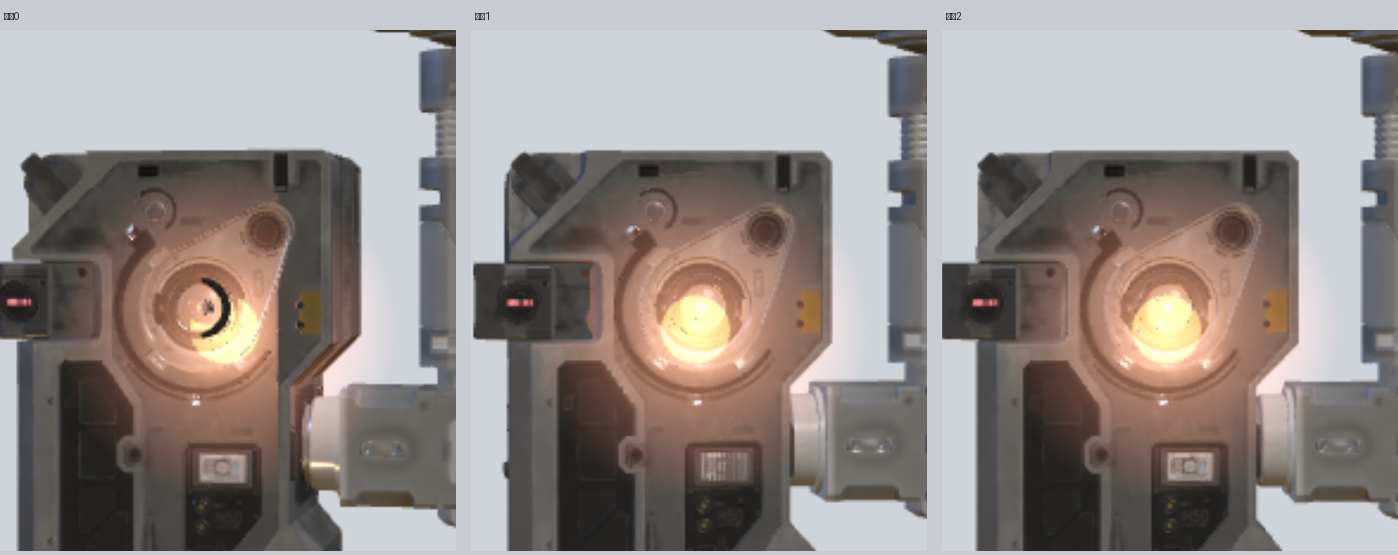
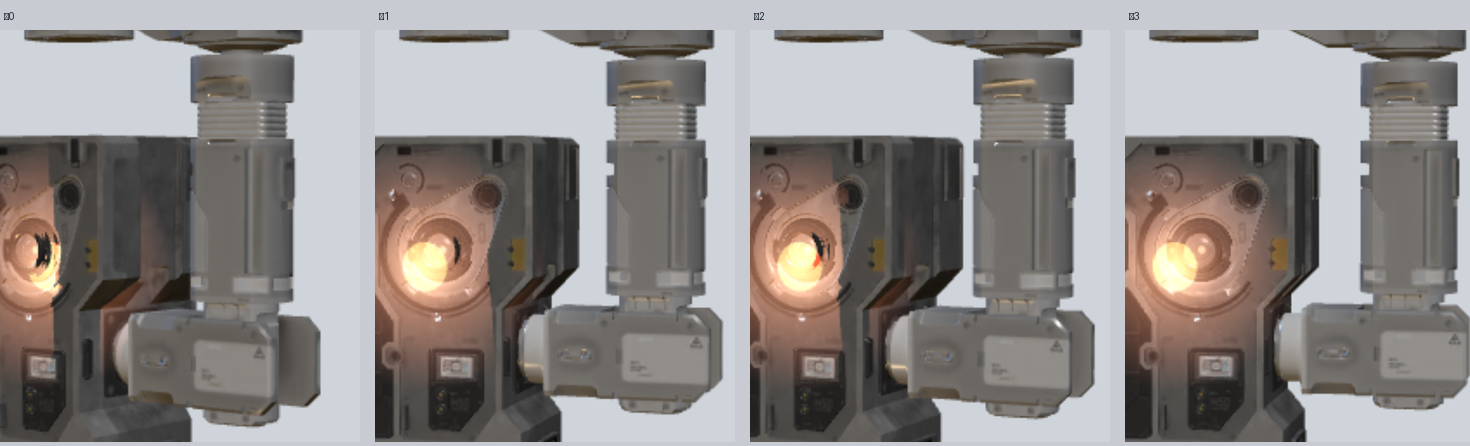
fix(moss): 枢轴改用拟合圆圆心（修正机身与摇臂分离）
根因：之前用截面质心当枢轴。实测三个关节的圆柱轴心分别在
  J1 (x=-0.37,y=79.9,z=18.04) r=5.94
  J2 (x=32.92,y=60.6,z=18.04) r=6.55
  J3 (x=35.25,y=25.0,z=18.02) r=6.64
肘/腕轴心在 x≈33~35，而质心被机身拉到 x≈0 —— 差 30 多单位，
机身就绕着错误的点转，视觉上就是和摇臂分离。
- 三个枢轴改用拟合轴心，绕垂直轴转动
- 顶部挂件区域变化 0.11（完全不动），机身 12~21（明显在动）
- 3/4 相机使垂直轴偏航可见
- 素材版本 v59

diff --git a/assets3d/boot.js b/assets3d/boot.js
@@ -74,22 +74,24 @@ export function createMoss3D(canvas, opts) {
     const center = box.getCenter(new THREE.Vector3())
     const size = box.getSize(new THREE.Vector3())
     obj.position.sub(center)
+    const baseY = obj.position.y
     scene.add(obj)
     objRoot = obj
     obj.updateMatrixWorld(true)
 
-    /* ── 关节（按参考图逐处核对轴向）─────────────────────────────────
-       参考图里三个红圈对应的轴向并不相同：
-         J1 头顶下方（颈部圆柱的水平缝）：红弧绕水平缝一圈 → 绕【垂直 Y 轴】偏航
-         J2 前臂顶端（前臂圆柱的水平缝）：同样是水平缝 → 绕【垂直 Y 轴】偏航
-         J3 腕部（机身右侧、面向镜头的圆面）：红圈是画面内的整圆 → 绕【朝向镜头的 Z 轴】
-       零件按 y 分布：横梁 79.9~93.4 / 上臂 60.6~79.9 / 前臂 25.0~60.6 / 手 4.3~25.0。
-       层级：obj → p1(J1,Y) → p2(J2,Y) → p3(J3,Z) → 手 + 机身。 */
+    /* ── 关节（轴心来自拟合圆）─────────────────────────────
+       在每个关节高度取截面、迭代拟合圆，得到真实的转轴位置：
+         J1 颈部 y=79.9 轴心 (x=-0.37, z=18.04) r≈5.94
+         J2 肘   y=60.6 轴心 (x=32.92, z=18.04) r≈6.55
+         J3 腕   y=25.0 轴心 (x=35.25, z=18.02) r≈6.64
+       三轴都是垂直 Y 轴。机身螺栓固定在手上 → 归 J3 段，随手腕一起动。 */
     {
       const arm = obj.getObjectByName('Moss_arm')
-      const J1 = 79.9
-      const J2 = 60.6
-      const J3 = 25.0
+      const JOINTS = [
+        { y: 79.9, x: -0.37, z: 18.04 },
+        { y: 60.6, x: 32.92, z: 18.04 },
+        { y: 25.0, x: 35.25, z: 18.02 },
+      ]
       if (arm) {
         const geo = arm.geometry
         const posAttr = geo.attributes.position
@@ -99,7 +101,7 @@ export function createMoss3D(canvas, opts) {
         const M = arm.matrix.clone()
         const parent = arm.parent
 
-        /* 焊接 + 连通块 */
+        /* 焊接 + 连通块，按块中心 y 分段 */
         const weld = new Map()
         const wid = new Int32Array(total)
         for (let i = 0; i < total; i += 1) {
@@ -126,7 +128,7 @@ export function createMoss3D(canvas, opts) {
         const bucketOf = new Map()
         compY.forEach((rec, r) => {
           const mid = (rec.y0 + rec.y1) / 2
-          bucketOf.set(r, mid > J1 ? 0 : mid > J2 ? 1 : mid > J3 ? 2 : 3)
+          bucketOf.set(r, mid > JOINTS[0].y ? 0 : mid > JOINTS[1].y ? 1 : mid > JOINTS[2].y ? 2 : 3)
         })
         const buckets = [[], [], [], []]
         for (let i = 0; i < total; i += 3) buckets[bucketOf.get(find(wid[i]))].push(i)
@@ -154,7 +156,6 @@ export function createMoss3D(canvas, opts) {
           return g2
         }
 
-        /* 所有分段先挂到 obj 下，保证 attach 时世界矩阵正确 */
         const makePart = (triStarts) => {
           const m = new THREE.Mesh(buildSub(triStarts), arm.material)
           m.frustumCulled = false
@@ -164,49 +165,25 @@ export function createMoss3D(canvas, opts) {
           m.updateMatrixWorld(true)
           return m
         }
-        const jointPos = (y) => {
-          let sx = 0; let sz = 0; let n = 0
-          for (let i = 0; i < total; i += 1) {
-            tmp.set(posAttr.getX(i), posAttr.getY(i), posAttr.getZ(i)).applyMatrix4(M)
-            if (Math.abs(tmp.y - y) < 3) { sx += tmp.x; sz += tmp.z; n += 1 }
-          }
-          return new THREE.Vector3(n ? sx / n : 0, y, n ? sz / n : 0)
-        }
 
         const headMesh = makePart(buckets[0])
         const upperMesh = makePart(buckets[1])
         const foreMesh = makePart(buckets[2])
         const handMesh = makePart(buckets[3])
 
-        const P1 = jointPos(J1)
-        const P2 = jointPos(J2)
-        const P3 = jointPos(J3)
-
-        /* 嵌套枢轴：p1 → p2 → p3，起始无旋转，所以位置直接用差值 */
-        const p1 = new THREE.Group(); p1.position.copy(P1); parent.add(p1); parent.updateMatrixWorld(true)
+        /* 枢轴 = 真实轴心，不是截面质心 */
+        const P = JOINTS.map((j) => new THREE.Vector3(j.x, j.y, j.z))
+        const p1 = new THREE.Group(); p1.position.copy(P[0]); parent.add(p1); parent.updateMatrixWorld(true)
         p1.attach(upperMesh)
-
-        const p2 = new THREE.Group(); p2.position.copy(P2).sub(P1); p1.add(p2); p1.updateMatrixWorld(true)
+        const p2 = new THREE.Group(); p2.position.copy(P[1]).sub(P[0]); p1.add(p2); p1.updateMatrixWorld(true)
         p2.attach(foreMesh)
-
-        const p3 = new THREE.Group(); p3.position.copy(P3).sub(P2); p2.add(p3); p2.updateMatrixWorld(true)
+        const p3 = new THREE.Group(); p3.position.copy(P[2]).sub(P[1]); p2.add(p3); p2.updateMatrixWorld(true)
         p3.attach(handMesh)
         ;['Moss_Main', 'Moss_Annexes', 'Moss_Glass'].forEach((nm) => {
           const part = obj.getObjectByName(nm)
           if (part) p3.attach(part)
         })
 
-        if (typeof window !== 'undefined' && window.__colorParts__) {
-          const tint = (mesh, hex) => { if (mesh) mesh.material = new THREE.MeshBasicMaterial({ color: hex }) }
-          tint(headMesh, 0x8899aa)   /* 固定 */
-          tint(upperMesh, 0xff5533)  /* J1 */
-          tint(foreMesh, 0x33dd77)   /* J2 */
-          tint(handMesh, 0x3399ff)   /* J3 */
-          ;['Moss_Main', 'Moss_Annexes', 'Moss_Glass'].forEach((nm) => {
-            const part = obj.getObjectByName(nm)
-            if (part) { part.material = new THREE.MeshBasicMaterial({ color: 0x3399ff }) }
-          })
-        }
         arm.visible = false
         armTop = p1
         armMid = p2

diff --git a/client/client.js b/client/client.js
@@ -37,7 +37,7 @@ window.__ModuleLoader__.load({
     var ROOT_ID = 'dsh-pet-liang-root'
     var POS_KEY = 'dsh-pet-liang:pos'
     /* 素材改了名字没变，加一个版本号强制浏览器重新取（宿主给的是 immutable 缓存） */
-    var ASSET_V = '58'
+    var ASSET_V = '59'
     var STYLE_ID = 'dsh-pet-liang-style'
 
     /** 四档推理等级对应的称呼与氛围色。 */

diff --git a/README.md b/README.md
@@ -109,7 +109,17 @@ MOSS 形象不再用预渲染 PNG，而是**在插件里实时渲染你提供的
 - 模型：`assets3d/moss.fbx`（4 个材质组 Moss_Main / Moss_arm / Moss_Glass / Moss_Annexes）
 - 贴图：4096² 原图压到 512 的 WebP，共 13 张（Base / Normal / Emissive / ORM 打包），合计约 400KB
 - 运行时：`three.module.min.js` + `FBXLoader` + `fflate` + `NURBS*`，全部本地托管，不联网
-- **分段（实测）**：`screenshots/17-part-classification.png` 是把四段直接染色的实拍——灰＝顶部横梁+头部（**固定**）、红＝上臂（绕 J1）、绿＝前臂（绕 J2）、蓝＝手+机身（绕 J3，机身跟着手走）。结构来自模型自身零件的 y 分布：79.9~93.4 / 60.6~79.9 / 25.0~60.6 / 4.3~25.0。
+- **分段与轴心（实测）**：`screenshots/17-part-classification.png` 是四段直接染色的实拍——灰＝顶部横梁+头部（**固定**）、红＝上臂（绕 J1）、绿＝前臂（绕 J2）、蓝＝手+机身（绕 J3，机身跟着手走）。
+  **枢轴必须用拟合圆的圆心，不能用截面质心**：
+
+  | 关节 | 高度 y | 轴心 x | 轴心 z | 半径 |
+  | --- | --- | --- | --- | --- |
+  | J1 颈部 | 79.9 | −0.37 | 18.04 | 5.94 |
+  | J2 肘 | 60.6 | 32.92 | 18.04 | 6.55 |
+  | J3 腕 | 25.0 | 35.25 | 18.02 | 6.64 |
+
+  肘/腕的轴心在 x≈33~35，而截面质心被机身拉到了 x≈0——用质心当枢轴会让机身绕错点旋转、看起来就是"和摇臂分离"。
+
 - **相机**：必须用 3/4 视角（方位角 26°）。正对时绕垂直轴的偏航是「往屏幕里外摆」，肉眼几乎看不出；3/4 下才明显。
 - **缓存**：`boot.js` 的请求带 `?v=`，宿主对 `.js` 返回 `no-cache`——之前没带版本，桌面端可能一直执行旧缓存。
 
